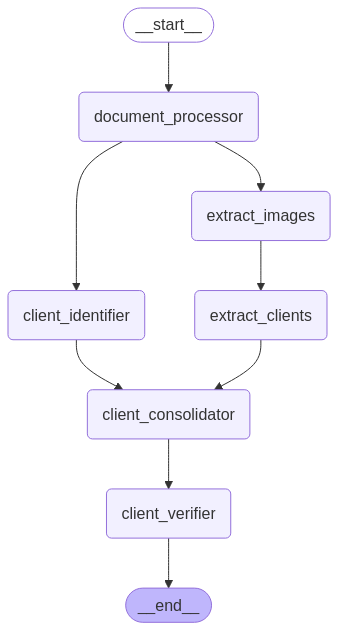
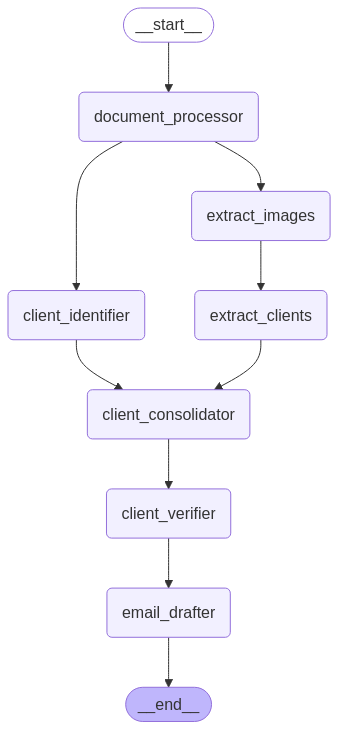
Added email drafter node

diff --git a/src/graph.py b/src/graph.py
@@ -78,7 +78,7 @@ def client_verifier(state: State) -> State:
     for client in final_clients_list:
         if verify_client(client.strip()):
             verified_clients.append(client)
-            
+
     save_state_to_file(verified_clients, "verified_clients.txt")
     return {"verified_clients": verified_clients}
 
@@ -99,18 +99,18 @@ async def document_summarizer(state: State) -> State:
 async def email_drafter(state: State) -> State:
     """Draft an email based on the document summary."""
     try:
-        if not state.summary and not state.verified_clients:
-            logging.error("Document content is missing or verified clients are missing. Skipping Email Draft.")
+        if not state.document_content and not state.verified_clients:
+            logging.error("Document content is missing. Skipping Email Draft.")
             return state
         
         logging.info("Drafting email")
         result = await Runner.run(
             draft_email_agent,
-            state.summary
+            state.document_content
         )
         
-        print (f"\n\n\n\n ***********************State in Email Drafter ***********************: {state} \n\n\n\n")
-        save_state_to_file(state.verified_clients, "verified_clients.txt")
+        # print (f"\n\n\n\n ***********************State in Email Drafter ***********************: {state} \n\n\n\n")
+        save_state_to_file(result.final_output, "email_draft.txt")
         return {"email_details": result.final_output}
     except Exception as e:
         logging.error(f"Error in email drafting: {str(e)}", exc_info=True)
@@ -267,6 +267,7 @@ def create_workflow_graph(document_path: str,file_name:str):
     workflow.add_node("extract_clients", extract_client_names_node)
     workflow.add_node("client_consolidator", client_consolidator)
     workflow.add_node("client_verifier", client_verifier)
+    workflow.add_node("email_drafter", email_drafter)
     
     workflow.add_edge(START, "document_processor")
     workflow.add_edge("document_processor", "client_identifier")
@@ -275,7 +276,8 @@ def create_workflow_graph(document_path: str,file_name:str):
     workflow.add_edge("client_identifier", "client_consolidator")
     workflow.add_edge("extract_clients", "client_consolidator")
     workflow.add_edge("client_consolidator", "client_verifier")
-    workflow.add_edge("client_verifier", END)
+    workflow.add_edge("client_verifier", "email_drafter")
+    workflow.add_edge("email_drafter", END)
 
     # # Add nodes
     # workflow.add_node("document_processor", lambda state: asyncio.run(document_processor(state, document_path,file_name)))

diff --git a/src/agents.py b/src/agents.py
@@ -62,7 +62,7 @@ Ensure the summary preserves the context and tone of the document while avoiding
 DRAFT_EMAIL_INSTRUCTIONS="""
         You are an expert email drafting agent. Your task is to create a professional and concise email.
         The email should include:
-        - A clear and concise subject line based on the provided summary.
+        - A clear and concise subject line based on the provided content.
         - A well-structured body that includes:
             - A greeting: "Dear [recipient_name]"
             - A brief introduction providing context about the attachment (e.g., "Please find attached the document on the key points").
